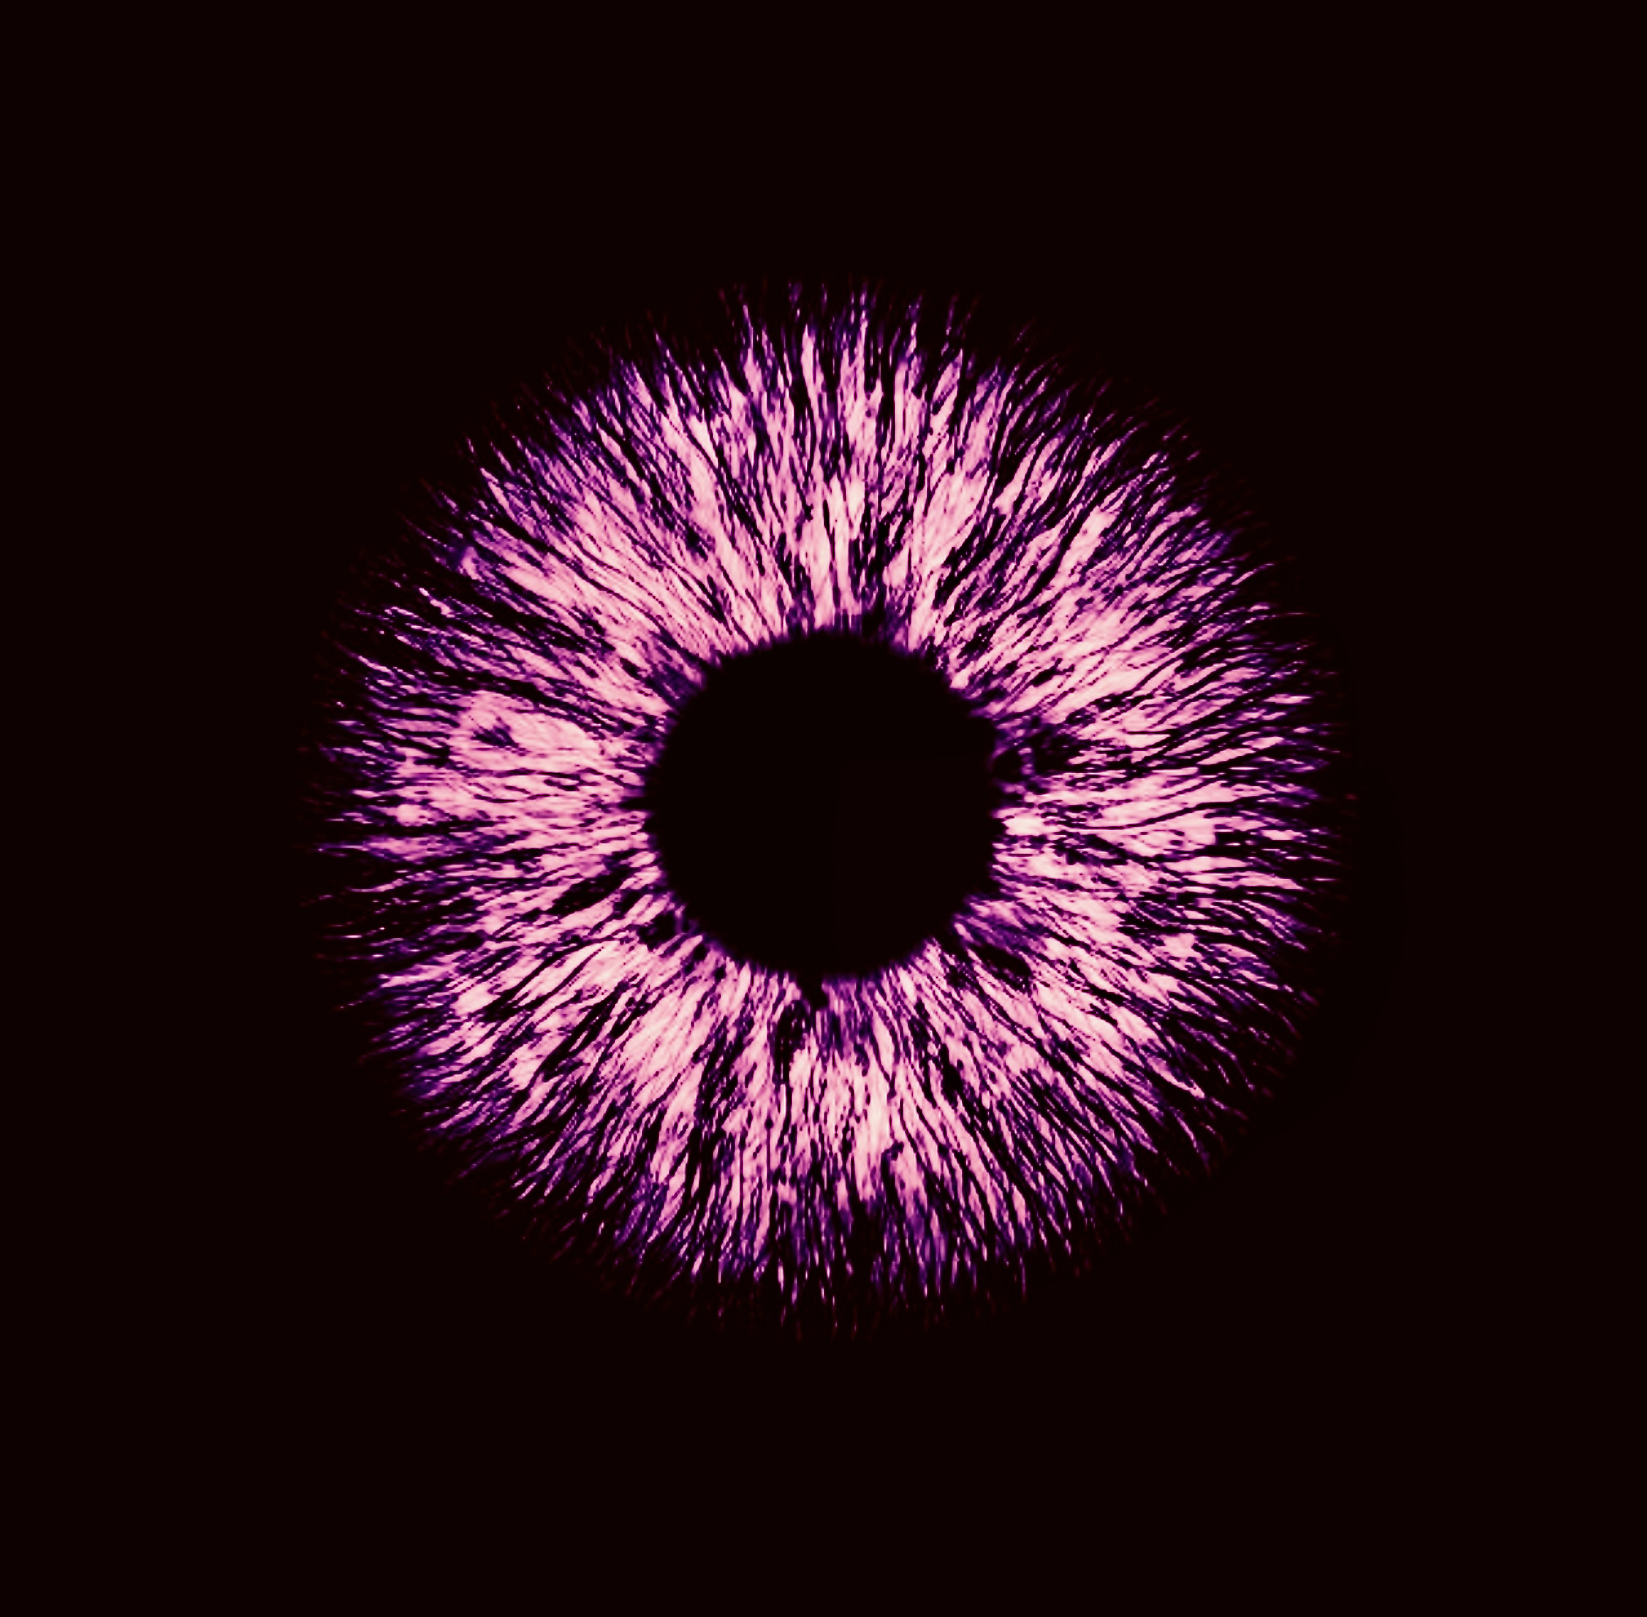
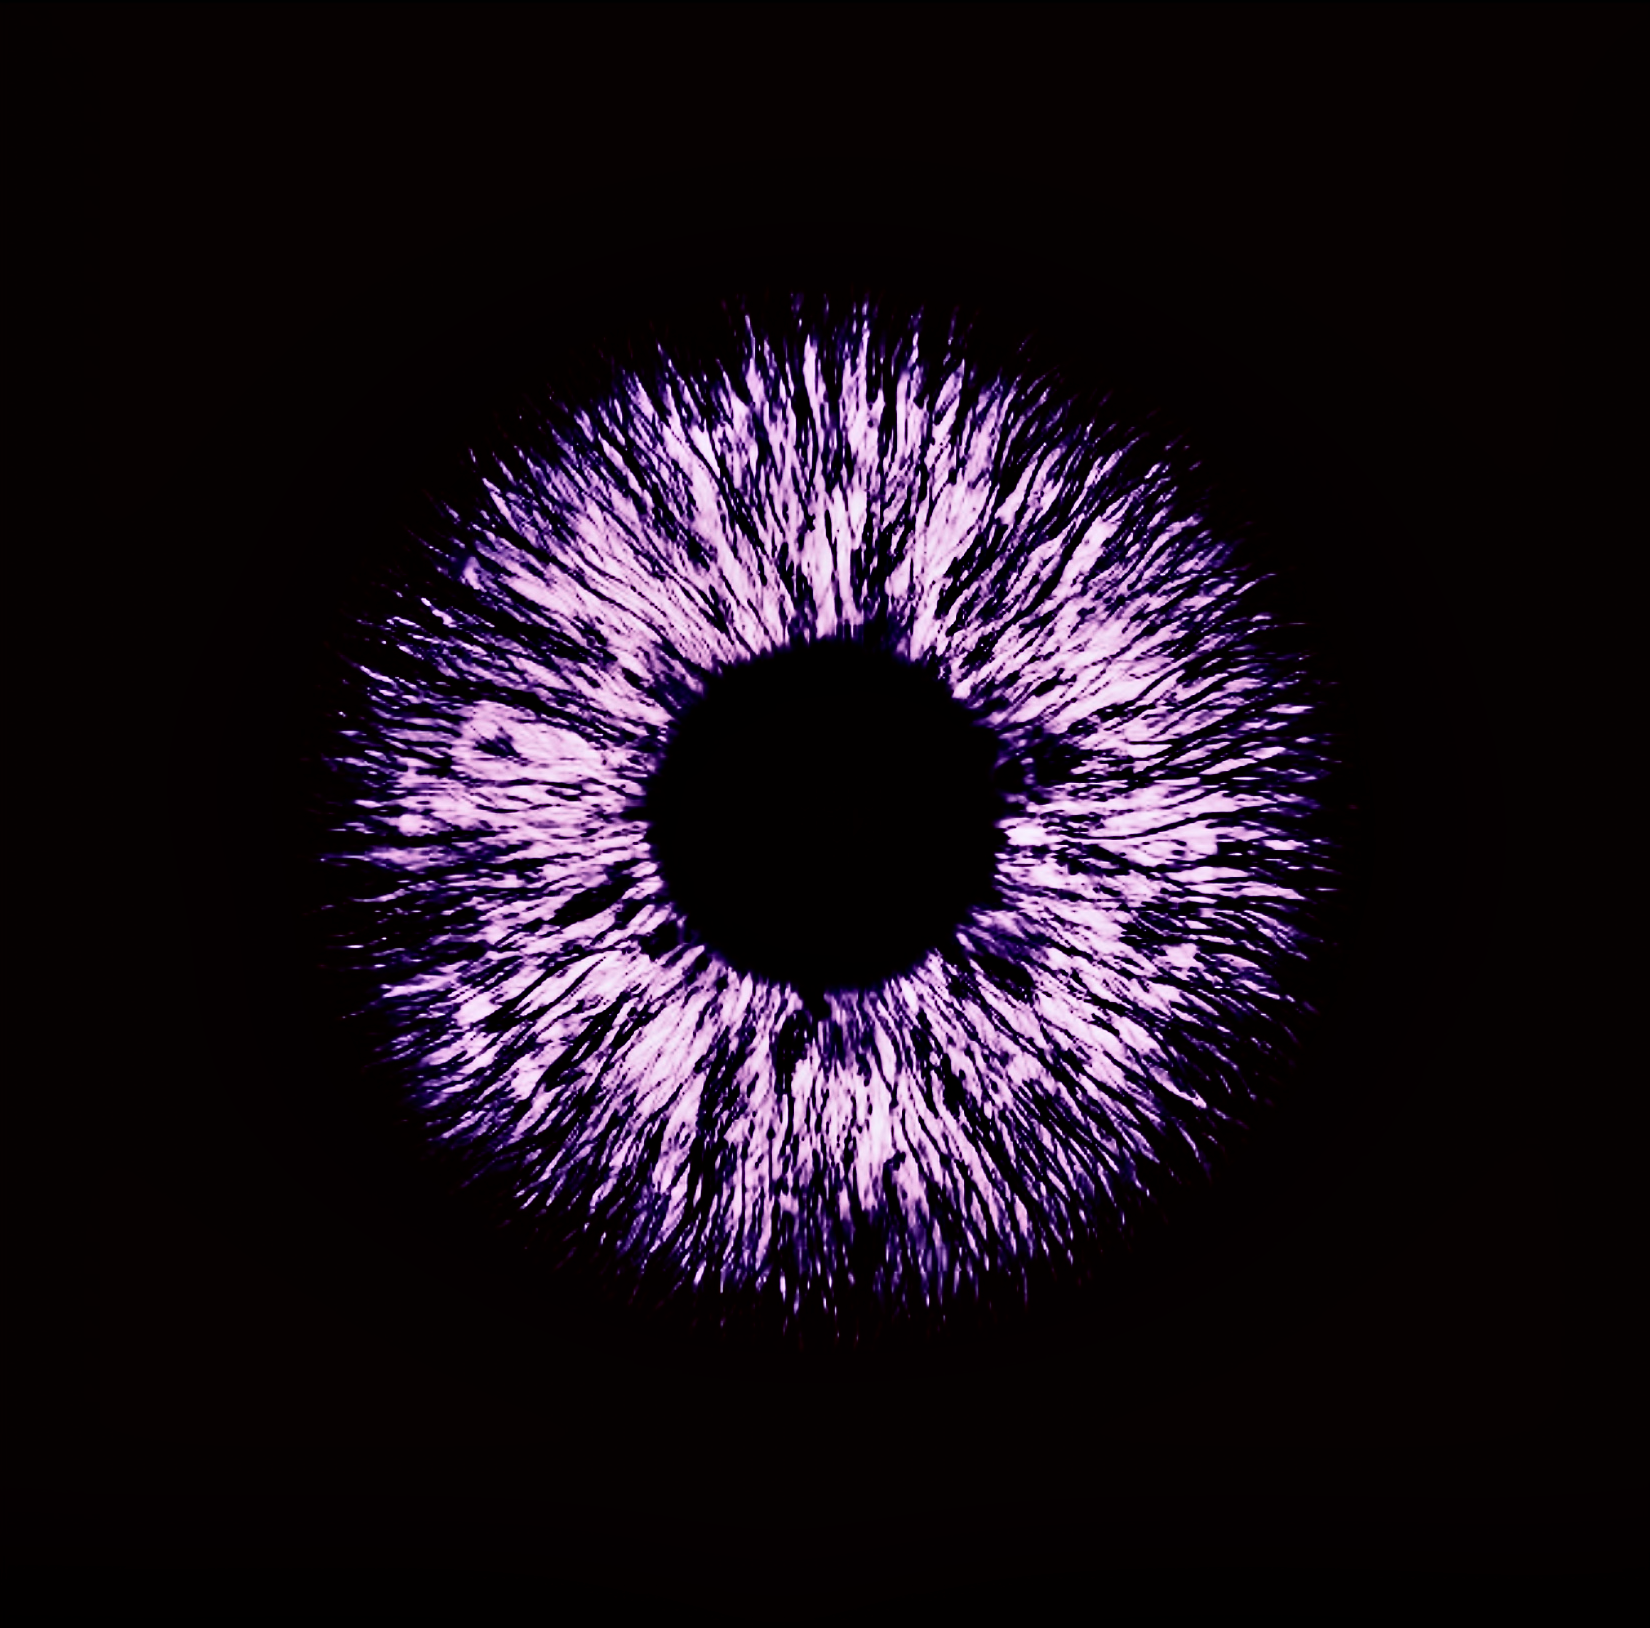
Erstat øje-billede med ny version
- Cache bump v212

Changed region(s): [[0.1858, 0.1855, 0.8051, 0.804]]

diff --git a/sw.js b/sw.js
@@ -1,4 +1,4 @@
-const CACHE_NAME = 'livsfaser-v211';
+const CACHE_NAME = 'livsfaser-v212';
 const urlsToCache = [
   './',
   './index.html',
